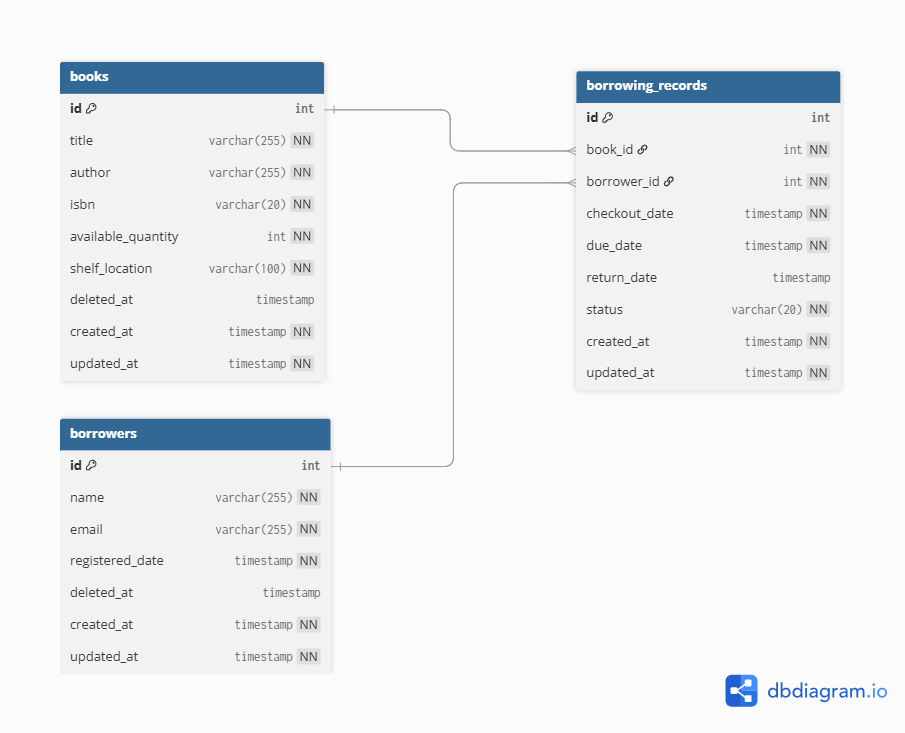
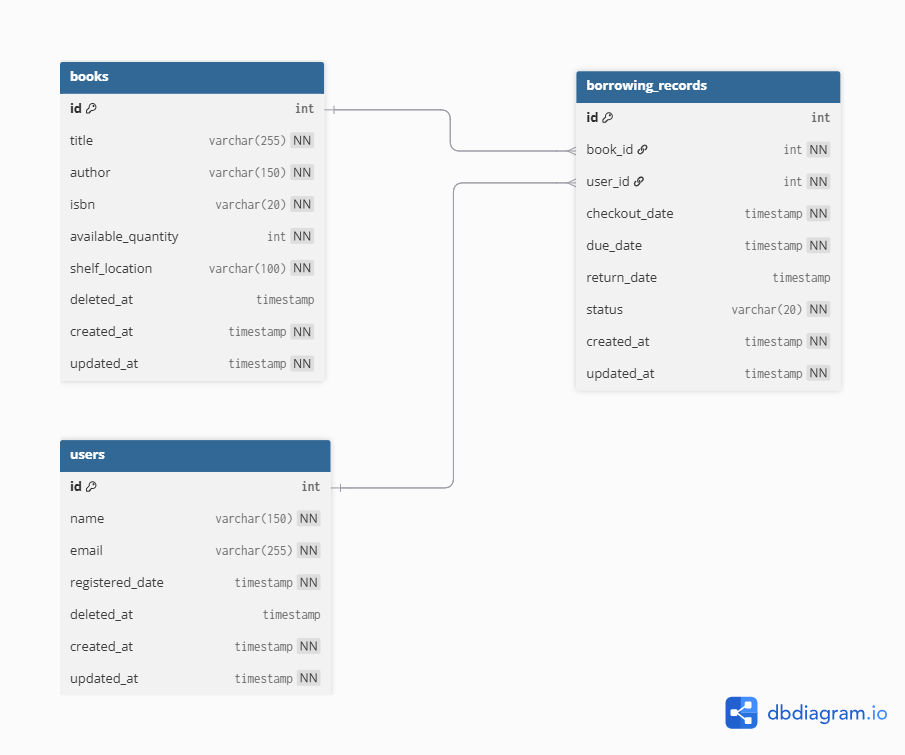
helmet middleware

diff --git a/src/main.ts b/src/main.ts
@@ -8,12 +8,15 @@ import {
 } from '@nestjs/common';
 import { WINSTON_MODULE_NEST_PROVIDER } from 'nest-winston';
 import { DocumentBuilder, SwaggerModule } from '@nestjs/swagger';
+import helmet from 'helmet';
 
 async function bootstrap() {
   const app = await NestFactory.create(AppModule, {
     // Suppress NestJS default logger during bootstrap — Winston takes over immediately after
     bufferLogs: true,
   });
+
+  app.use(helmet());
 
   app.useLogger(app.get(WINSTON_MODULE_NEST_PROVIDER));
 
